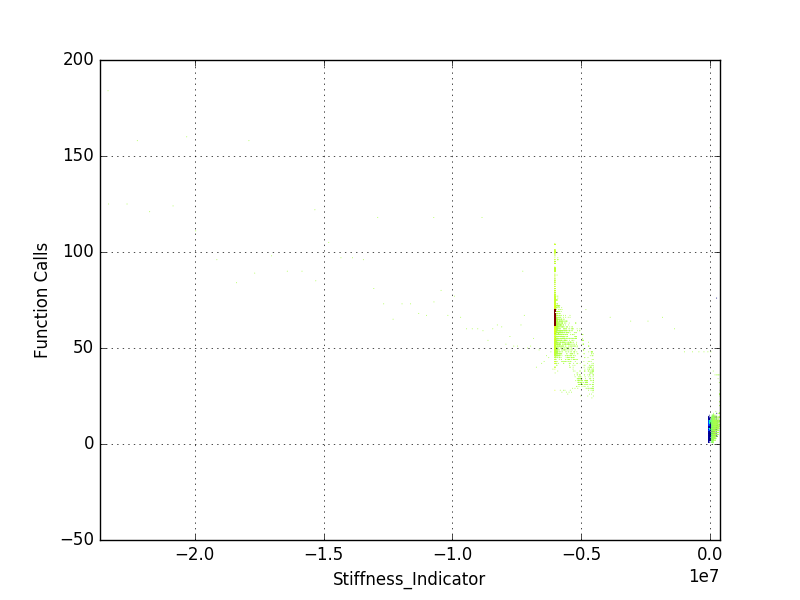
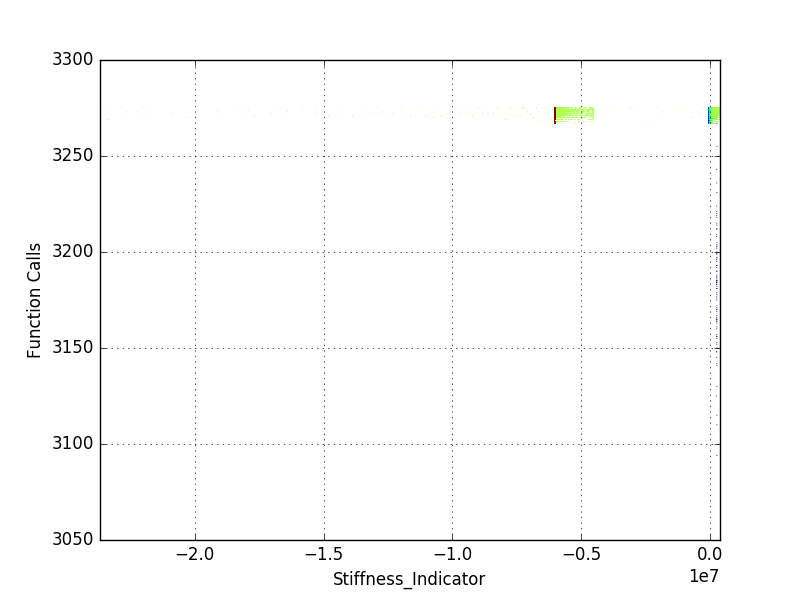
Ran some plots and set up PaSR to record temperature.

diff --git a/Plotter_A_Posteriori.py b/Plotter_A_Posteriori.py
@@ -44,11 +44,13 @@ equation = 'Autoignition'
 # Make this true if you want to plot the reference timescale of the stiffness
 # indicator.
 findtimescale = False
+# Make this true if you want normalized timescales
+normtime = False
 # Make this true if you want to test all of the values across the PaSR.
 # Otherwise, this will run a single autoignition at particle 92, timestep 4.
 PaSR = False
 pasrfilesloaded = 9
-diffcolors = True
+diffcolors = False
 # Define the range of the computation.
 dt = 1.e-6
 tstart = 0.
@@ -150,7 +152,7 @@ pyl.close('all')
 # Something is causing a bug in the tlist and this is intended to fix it
 if not PaSR:
     primaryvals = np.array(solution[:, 0])
-    if len(tlist) == len(primaryvals) + 1:
+    if len(tlist) == len(primaryvals) + 1 or len(tlist) == len(functionwork) + 1:
         tlist = tlist[1:]
 
 plotnum = 0
@@ -340,6 +342,40 @@ if PaSR:
         pyl.savefig(name + '.' + figformat)
     plotnum += 1
 
+    # Plot of function calls vs. temperature
+    fig3 = pyl.figure(plotnum)
+    pyl.xlabel(method)
+    pyl.ylabel('Temperature')
+    pyl.ylim(0., max(functionwork))
+    pyl.xlim(min(stiffvals), max(stiffvals))
+    if method == 'Stiffness_Index' or method == 'Stiffness_Ratio':
+        pyl.xscale('log')
+    elif method == 'CEMA':
+        pyl.xlim(1e-16, max(stiffvals))
+        # pyl.ylim(0., 0.03)
+        pyl.xscale('log')
+        # pyl.ylim(0, 0.001)
+    # colors = plt.cm.spectral(np.linspace(0, 1, pasrfilesloaded))
+    ax2 = fig2.add_subplot(111)
+    if diffcolors:
+        for i in range(pasrfilesloaded):
+            ax2.scatter(stiffvals[i*100100:(i+1)*100100],
+                        functionwork[i*100100:(i+1)*100100],
+                        color=colors[i],
+                        label='PaSR ' + str(i) + ' Data'
+                        )
+        ax2.legend(fontsize='small')
+    else:
+        ax2.scatter(stiffvals, functionwork, 0.1)
+    pyl.grid(b=True, which='both')
+    if savefigures == 1:
+        name = output_folder + 'PaSR_Fn_Work_' + method + '_' + str(dt) +\
+            '_' + targetdate
+        if diffcolors:
+            name += '_color'
+        pyl.savefig(name + '.' + figformat)
+    plotnum += 1
+
     if makerainbowplot:
         # Plot the stiffness at every point in the PaSR simulation
         # Create a mesh to plot on
@@ -374,11 +410,12 @@ else:
         primaryvals = primaryvals[:-3]
         solutiontimes = solutiontimes[:-3]
         stiffvalues = stiffvalues[:-3]
+        functionwork = functionwork[:-3]
     # Create a list of normalized dt values
     normtlist = []
     for i in tlist:
         normtlist.append(i / (tstop - tstart))
-    if method == 'Stiffness_Indicator':
+    if normtime and method == 'Stiffness_Indicator':
         tlist = normtlist
         plotx = 0, 1
     else:

diff --git a/A_Posteriori_Stiffness_Detection.py b/A_Posteriori_Stiffness_Detection.py
@@ -373,7 +373,8 @@ elif equation == 'Autoignition':
 
 # Create vectors for that time how long it takes to compute stiffness index and
 # the solution itself
-solutiontimes, stiffcomptimes, stiffvals, functionwork = [], [], [], []
+solutiontimes, stiffcomptimes, stiffvals, functionwork, = [], [], [], []
+temps = []
 
 # Loop through the PaSR file for initial conditions
 if PaSR:
@@ -384,8 +385,8 @@ if PaSR:
     tstart = 0.
     tstop = 5 * dt
 else:
-    particlelist = [892]
-    timelist = [45]
+    particlelist = [92]
+    timelist = [4]
     # Can only do this plot for PaSR, so shutting it off here.
     makerainbowplot = False
 
@@ -447,15 +448,12 @@ for particle in particlelist:
             time0 = timer.time()
             solver.integrate(solver.t + dt)
             time1 = timer.time()
-            # print('-----')
-            # print('Condition at t = {}'.format(solver.t))
-            # for i in solver.y:
-            #     print(i)
             solution.append(solver.y)
             if PaSR:
                 if k == 2:
                     solutiontimes.append(time1 - time0)
                     functionwork.append(functioncalls)
+                    temps.append(solver.y[0])
                 k += 1
             else:
                 solutiontimes.append(time1 - time0)
@@ -616,17 +614,19 @@ if savedata == 1:
         timescalefilename = 'PaSR_' + timescalefilename
         workfilename = 'PaSR_' + workfilename
         pasrstiffnessfilename = 'PaSR_Stiffnesses_' + method + '_' + str(dt)
+        pasrtempsfilename = 'PaSR_Temps_' + str(dt)
         np.save(data_folder + metricfilename, stiffvals)
+        np.save(data_folder + pasrtempsfilename, temps)
         if makerainbowplot:
             np.save(data_folder + pasrstiffnessfilename, pasrstiffnesses)
     else:
-        np.save(data_folder + solfilename + '_892', solution)
-        np.save(data_folder + metricfilename + '_892', stiffvalues)
-    np.save(data_folder + inttimingfilename + '_892', solutiontimes)
-    np.save(data_folder + metrictimingfilename + '_892', stiffcomptimes)
-    np.save(data_folder + workfilename + '_892', functionwork)
+        np.save(data_folder + solfilename, solution)
+        np.save(data_folder + metricfilename, stiffvalues)
+    np.save(data_folder + inttimingfilename, solutiontimes)
+    np.save(data_folder + metrictimingfilename, stiffcomptimes)
+    np.save(data_folder + workfilename, functionwork)
     if findtimescale:
-        np.save(data_folder + timescalefilename + '_892', timescales)
+        np.save(data_folder + timescalefilename, timescales)
 
 finishtime = datetime.datetime.now()
 print('Finish time: {}'.format(finishtime))

diff --git a/Autoignition_Int_Scheduler.py b/Autoignition_Int_Scheduler.py
@@ -194,41 +194,35 @@ def stiffnessindex(xlist, solution, dfun, jfun, *args, **kwargs):
     return indexlist  # , dydxlist
 
 
-def stiffnessindicator(xlist, solution, jfun, *args):
+def stiffnessindicator(time, solution, jfun, *args):
     """
-    Find the stiffness indicator across a solution.
+    Find the local stiffness indicator after calculating local solution.
 
-    Given the set of values of the solution, find the stiffness indicator as
-    defined by Soderlind 2013.
+    Given the value of the solution, find the stiffness indicator as defined by
+    Soderlind 2013.
     """
     funcparams = []
     for arg in args:
         funcparams.append(arg)
 
-    indicatorvals = []
-    for i in range(len(solution)):
-        jacobian = jfun(xlist[i], solution[i], funcparams[0])
-        Hermitian = 0.5 * (jacobian + np.transpose(jacobian))
-        eigvals = np.linalg.eigvals(Hermitian)
-        indicatorvals.append(0.5 * (min(eigvals) + max(eigvals)))
-    return indicatorvals
+    jacobian = jfun(time, solution, funcparams[0])
+    Hermitian = 0.5 * (jacobian + np.transpose(jacobian))
+    eigvals = np.linalg.eigvals(Hermitian)
+    return 0.5 * (min(eigvals) + max(eigvals))
 
 
-def reftimescale(indicatorvals, Tlen):
+def reftimescale(indicatorval, Tlen):
     """
-    Find the reference timescale for the stiffness indicator.
+    Find the local reference timescale for the stiffness indicator.
 
     Given the stiffness indicator values as defined by Soderlind 2013, finds
     the reference time scale.
     """
-    timescales = []
-    for i in range(len(indicatorvals)):
-        if indicatorvals[i] >= 0:
-            timescales.append(Tlen)
-        else:
-            timescales.append(min(Tlen, -1/indicatorvals[i]))
-    timescales = np.array(timescales)
-    return timescales
+    if indicatorval >= 0:
+        timescale = Tlen
+    else:
+        timescale = min(Tlen, -1/indicatorval)
+    return timescale
 
 
 def CEMA(xlist, solution, jfun, *args):
@@ -436,9 +430,9 @@ for particle in particlelist:
         while solver.successful() and solver.t <= tstop:
             # Initialize global variable for counting RHS function calls
             functioncalls = 0
-            time0 = timer.time()
+            # time0 = timer.time()
             solver.integrate(solver.t + dt)
-            time1 = timer.time()
+            # time1 = timer.time()
             solution.append(solver.y)
 
         if displayconditions:
